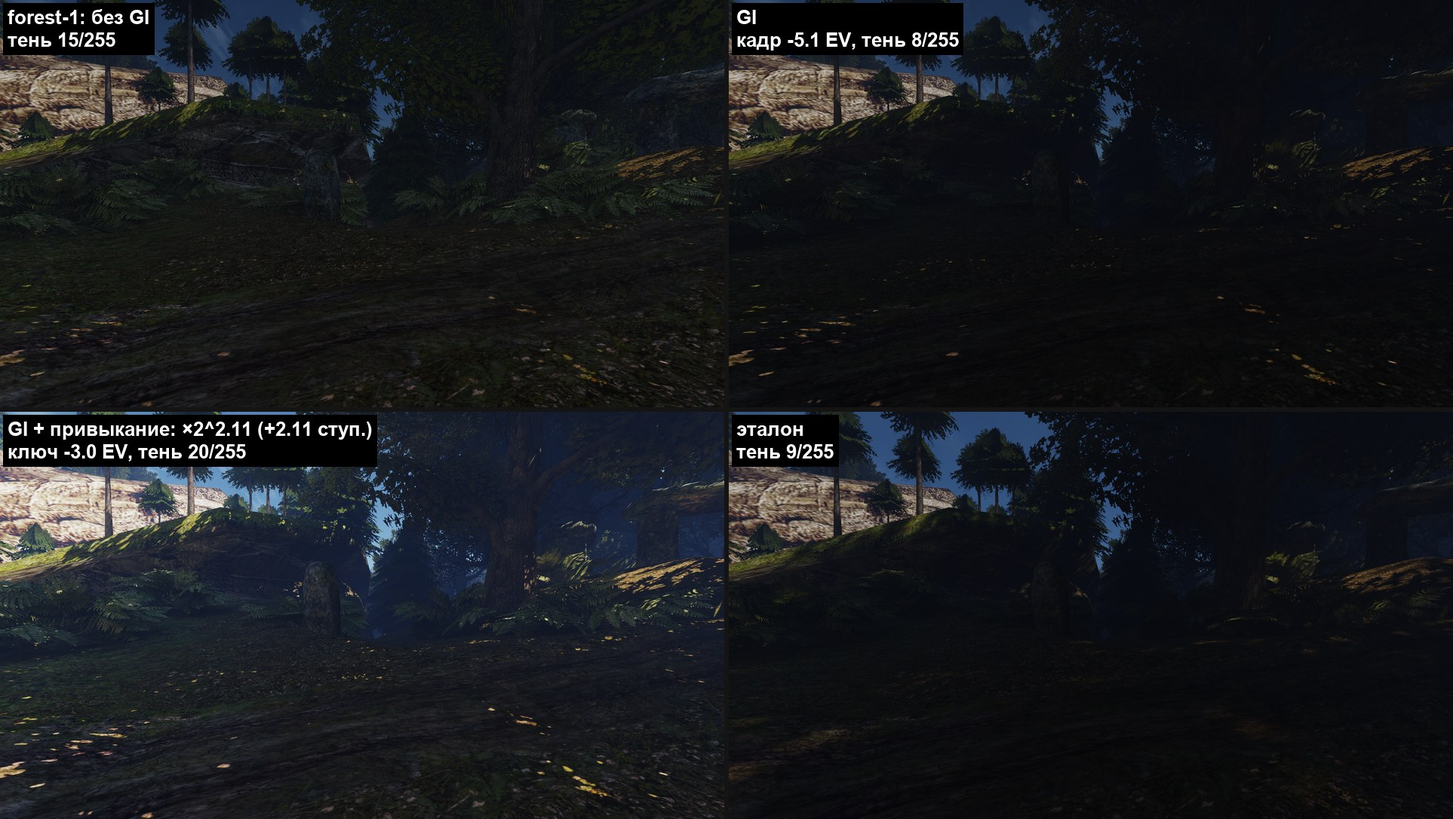
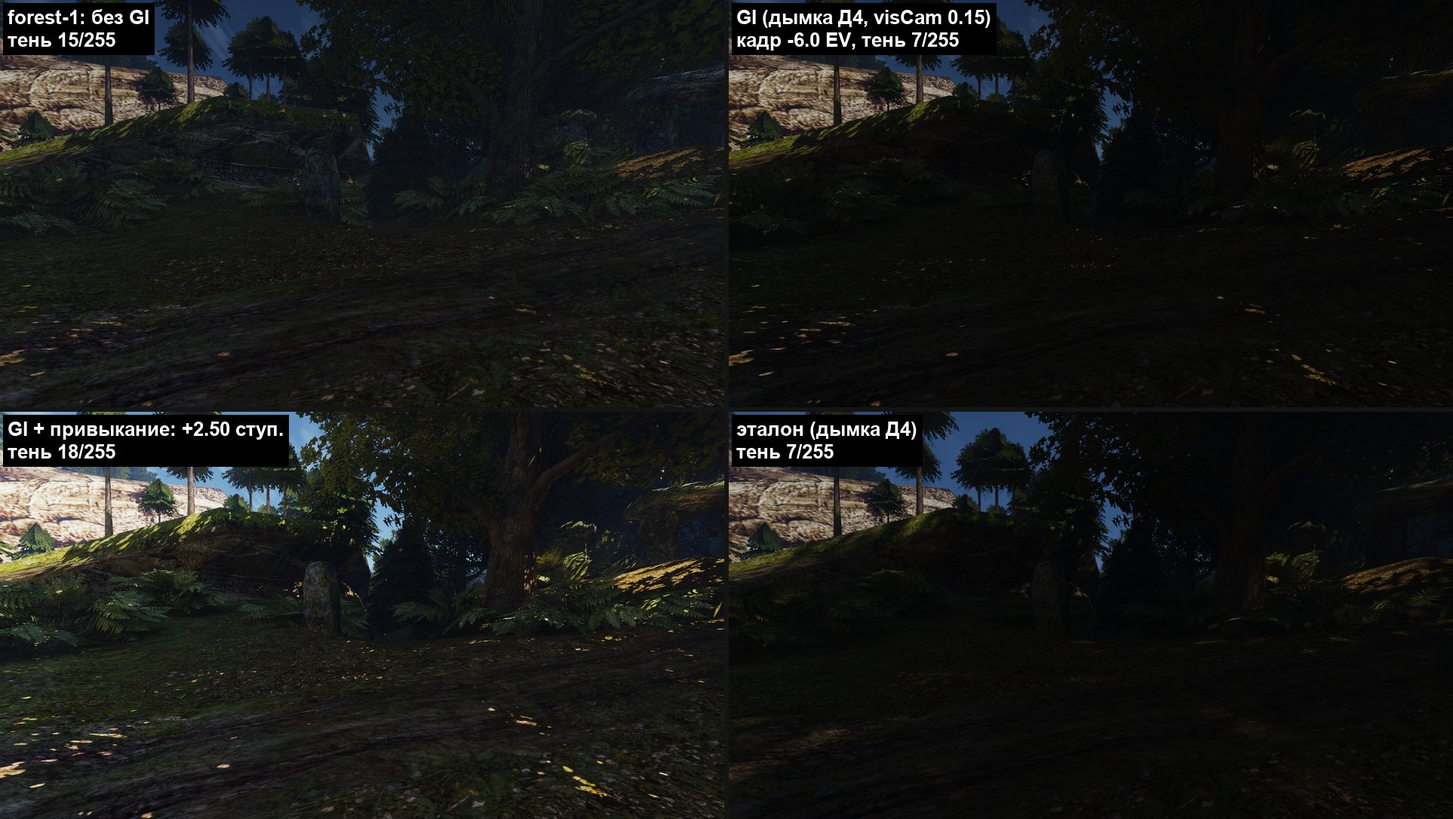
rt-revisit step 2, round 3: D4 measured - the shade, the open views, visCam over time, the clips; the sheets anew

Changed region(s): [[0.0, 0.4862, 0.4984, 0.7901], [0.5607, 0.4862, 0.6542, 0.5773], [0.5296, 0.0, 0.6854, 0.0608]]

diff --git a/reports/render-features/2026-11-08-rt-revisit/README.md b/reports/render-features/2026-11-08-rt-revisit/README.md
@@ -92,7 +92,7 @@
 
 0. **Замер.** Таймеры GPU по проходам на Vulkan (timestamp queries, как `OPENGOTHIC_GPU_PASSES` на Metal). Цена нынешних `-rt 1` и `-rt 1 -gi 1` на 3080 при 1440p в пяти местах стенда. Размер сцены лучей в городе после ремастера: экземпляры, треугольники, память BLAS. Приёмка — таблица. **Сделан** ([итог](step-0.md)): на улице трассировка стоит +0,9…1,6 мс GPU, в интерьере всю цену даёт пересборка сцены каждый кадр — 11,3 мс CPU и ≈2,9 мс GPU.
 1. **Сцена лучей без цены на CPU** ([проект 1б](step-1b.md); 1а — найти, что в интерьере пересобирает сцену каждый кадр). Ландшафт и статика — BLAS один раз на кусок и сжатие. TLAS на GPU каждый кадр из буфера экземпляров растеризации. Корзины — по хэшу. Дескрипторы не пересоздаются. Подвижные vob входят в TLAS. Приёмка: в интерьере с `-rt 1` кадр CPU как с `-rt 0` (±0,3 мс), `updateRtScene` < 0,1 мс; TLAS ≤ 0,3 мс GPU на 3080; картинка теней и GI та же. **Сделан** ([итог](step-1.md), #1037, #1043): в интерьере `-rt 1` дороже `-rt 0` на 0,13 мс CPU (было +12,6), `rt_scene` 0,027 мс, сборка TLAS 0,27 мс GPU; на улице цена лучей только на GPU, +0,65…1,4 мс в 1440p, почти вся — GI-пробы. Предметы, NPC и ткань в сцену не вошли; с `-rt 1` ландшафт по-прежнему не подгружается по кускам.
-2. **GI.** Пробы с бюджетом лучей на 3080. Режим запекания тем же кодом для Mac. Выбор между `-gi 1`, `-gi 2` и своей хэш-сеткой. Приёмка: клипы «без GI | GI» — интерьер, ночная гавань, лес, пещера; ≤1,5 мс GPU в 1440p. **Исследование сделано** ([план](step-2.md)): эталон — трассировщик путей движка, сценарии `gi-clips` и `gi-reference`, сравнение `scripts/gi_compare.py`. Без GI 30 % клеток кадра в пределах ±15 % от эталона, `-gi 1` — 40 %, `-gi 2` — 64 %. Предложение — пересвечиваемые пробы, как у The Division: 2а свет в точке попадания, 2б размещение и видимость, 2в запекание для Mac. **2а принят** пользователем 2026-11-09 ([итог](step-2.md#2а-сделано): 62 % клеток, весь GI 0,58–1,32 мс); цель 75 % перенесена на 2б ([замысел 2б](step-2b.md)). **2б-1 принят** пользователем 2026-11-10 ([итог](step-2b.md#2б-1-сделано), [пересмотр](step-2b.md#2б-1-пересмотр)): пробы не зависят от взгляда, поворот на 180° и обратно меняет клетки не больше чем на 1,2 % (`main` — 6,2 %). Причина тёмных дневных помещений — обрезка света ламп в хранилище проб (днём лампы ×1/экспозиция дают до 10⁶ при потолке 65 тыс.); масштаб хранения 2⁻⁸ и пересвет по счётчику пробы дали 71 % клеток (было 62 % у 2а), медиана 0,95, весь GI 0,81–0,99 мс. Клетка `hut-day-2` 1,22 — переоценка у косой стены от куба из шести граней (интеграл по нормали пикселя даёт 1,09). Решение пользователя: принять при 71 %, пороги проверки 70 % и 1,25; цель 75 %, точнее облучённость по направлениям и утечки — в 2б-2. **2б-2 принят** пользователем 2026-11-10 ([итог](step-2b.md#2б-2-сделано), PR #1162): облучённость пробы — гармоники L2 вместо куба из шести граней, 75 % клеток (медиана 0,96), `hut-day-2` 1,12, утечек GI сквозь стены нет (новые ракурсы `leak-*`), весь GI 0,92–1,09 мс. Разбор потерь: ~9 % отражённого света помещений теряет формула пятна лампы в точках попадания из 2а — её правит 2б-3. **2б-3 принят** пользователем 2026-11-10 ([итог](step-2b.md#2б-3-сделано)): свет ламп в попаданиях — точное среднее по пятну конуса (интеграл вокруг основания лампы; кандидаты замысла А–Г не прошли 5 %), 82 % клеток (медиана 0,99), затенённые помещения 88 % (было 69 %), весь GI 1,00–1,16 мс. Порог горячих клеток не пройден на `hut-day-2` 1,21, `leak-sun-day` 1,30, `interior-night-2` 1,42 и клетках пламени (`cave-night-2` не проходит и чистый `main`): по разбору формула пятна верна, перебор дают отскок через пробы и сами пробы. Решение пользователя: принять с этими клетками, отскок через пробы у ламп и места проб у полок — в следующий шаг. **2б-4** ([замысел](step-2b.md#2б-4-замысел-11112026), [итог](step-2b.md#2б-4-сделано)) — разбор трёх горячих клеток опытами в отладочной сборке, код GI не менялся. Солнце в попадании (О1), отскок (О2) и видимость углов в сборе пикселя (О3) снимают 0–11 % превышения: правок К1–К3 нет. Перебор дают ближнее поле — проба не в точке пикселя (О4: 44–86 % превышения) — и конус сэмпла одной точкой (новый опыт О5: 36–94 %); вместе они закрывают все три клетки до ±5 %. В клетке полок ещё и флакон, которого нет в сцене лучей эталона. Обе правки — новые части системы; оценки К4 (градиент облучённости +0,2–0,3 мс или короткое заслонение +0,15–0,5 мс) и К5 (луч на пересвеченный сэмпл: весь GI 1,39–2,00 мс) — на решение ведущего. Итоговая проверка с ослабленными целями шага — как `main`: 83 % клеток, затенённые помещения 88 %, весь GI 0,96–1,12 мс. **Приёмка по клипам** «без GI | GI» (`gi-accept`, 12.11.2026) остановлена на темноте тени: лес в полдень и пещера днём почти чёрные. [Разбор](step-2-shade.md): свет тени с GI физически верен и совпадает с эталоном (лес −4,6 ступени от открытого места, жизнь −3,5…−6,6); темноту дают экспозиция без привыкания (1,5–2,1 ступени) и низ кривой тонов (≈1,7 ступени), а без GI тень держалась на свете, которого там нет. Пути К1 (привыкание) и К2 (линейный низ кривой) показаны на листах, выбор — за пользователем. Пользователь выбрал К1. **Привыкание глаза** ([замысел](step-2-shade.md#привыкание-глаза-замысел-12112026), [итог](step-2-shade.md#привыкание-глаза-сделано-12112026)): вуаль дымки оказалась ошибкой таблицы дымки (у камеры читалось рассеяние 780 м воздуха) и убрана, и без GI тень темнеет на 2 из 255. Привыкание сделано (`-eye`, по умолчанию с `-gi 1`): днём лес +1,8…+2,1 ступени, пещера +2,2…+2,4, рынок 0, тень леса 8 → 20 из 255. Решения ведущего 12.11.2026: ключ ночи — открытое место без ламп (−6,6 EV, поля в 23:00; ночная пещера +0,33 ступени), замер остаётся по кадру без неба, база порогов GI — новая, с правкой вуали (`gi-eye-check.sh`). Синяя дымка в тени под привыканием — многократное рассеяние неба без заслонения (55–72 % яркости тени); правка Д1 (заслонять его тенью солнца) гасит и дальнюю дымку на 8–36 %, в ветку не вошла. Клипы «без GI | GI | GI + привыкание» сняты (`gi-accept.bench`), их смотрит пользователь.
+2. **GI.** Пробы с бюджетом лучей на 3080. Режим запекания тем же кодом для Mac. Выбор между `-gi 1`, `-gi 2` и своей хэш-сеткой. Приёмка: клипы «без GI | GI» — интерьер, ночная гавань, лес, пещера; ≤1,5 мс GPU в 1440p. **Исследование сделано** ([план](step-2.md)): эталон — трассировщик путей движка, сценарии `gi-clips` и `gi-reference`, сравнение `scripts/gi_compare.py`. Без GI 30 % клеток кадра в пределах ±15 % от эталона, `-gi 1` — 40 %, `-gi 2` — 64 %. Предложение — пересвечиваемые пробы, как у The Division: 2а свет в точке попадания, 2б размещение и видимость, 2в запекание для Mac. **2а принят** пользователем 2026-11-09 ([итог](step-2.md#2а-сделано): 62 % клеток, весь GI 0,58–1,32 мс); цель 75 % перенесена на 2б ([замысел 2б](step-2b.md)). **2б-1 принят** пользователем 2026-11-10 ([итог](step-2b.md#2б-1-сделано), [пересмотр](step-2b.md#2б-1-пересмотр)): пробы не зависят от взгляда, поворот на 180° и обратно меняет клетки не больше чем на 1,2 % (`main` — 6,2 %). Причина тёмных дневных помещений — обрезка света ламп в хранилище проб (днём лампы ×1/экспозиция дают до 10⁶ при потолке 65 тыс.); масштаб хранения 2⁻⁸ и пересвет по счётчику пробы дали 71 % клеток (было 62 % у 2а), медиана 0,95, весь GI 0,81–0,99 мс. Клетка `hut-day-2` 1,22 — переоценка у косой стены от куба из шести граней (интеграл по нормали пикселя даёт 1,09). Решение пользователя: принять при 71 %, пороги проверки 70 % и 1,25; цель 75 %, точнее облучённость по направлениям и утечки — в 2б-2. **2б-2 принят** пользователем 2026-11-10 ([итог](step-2b.md#2б-2-сделано), PR #1162): облучённость пробы — гармоники L2 вместо куба из шести граней, 75 % клеток (медиана 0,96), `hut-day-2` 1,12, утечек GI сквозь стены нет (новые ракурсы `leak-*`), весь GI 0,92–1,09 мс. Разбор потерь: ~9 % отражённого света помещений теряет формула пятна лампы в точках попадания из 2а — её правит 2б-3. **2б-3 принят** пользователем 2026-11-10 ([итог](step-2b.md#2б-3-сделано)): свет ламп в попаданиях — точное среднее по пятну конуса (интеграл вокруг основания лампы; кандидаты замысла А–Г не прошли 5 %), 82 % клеток (медиана 0,99), затенённые помещения 88 % (было 69 %), весь GI 1,00–1,16 мс. Порог горячих клеток не пройден на `hut-day-2` 1,21, `leak-sun-day` 1,30, `interior-night-2` 1,42 и клетках пламени (`cave-night-2` не проходит и чистый `main`): по разбору формула пятна верна, перебор дают отскок через пробы и сами пробы. Решение пользователя: принять с этими клетками, отскок через пробы у ламп и места проб у полок — в следующий шаг. **2б-4** ([замысел](step-2b.md#2б-4-замысел-11112026), [итог](step-2b.md#2б-4-сделано)) — разбор трёх горячих клеток опытами в отладочной сборке, код GI не менялся. Солнце в попадании (О1), отскок (О2) и видимость углов в сборе пикселя (О3) снимают 0–11 % превышения: правок К1–К3 нет. Перебор дают ближнее поле — проба не в точке пикселя (О4: 44–86 % превышения) — и конус сэмпла одной точкой (новый опыт О5: 36–94 %); вместе они закрывают все три клетки до ±5 %. В клетке полок ещё и флакон, которого нет в сцене лучей эталона. Обе правки — новые части системы; оценки К4 (градиент облучённости +0,2–0,3 мс или короткое заслонение +0,15–0,5 мс) и К5 (луч на пересвеченный сэмпл: весь GI 1,39–2,00 мс) — на решение ведущего. Итоговая проверка с ослабленными целями шага — как `main`: 83 % клеток, затенённые помещения 88 %, весь GI 0,96–1,12 мс. **Приёмка по клипам** «без GI | GI» (`gi-accept`, 12.11.2026) остановлена на темноте тени: лес в полдень и пещера днём почти чёрные. [Разбор](step-2-shade.md): свет тени с GI физически верен и совпадает с эталоном (лес −4,6 ступени от открытого места, жизнь −3,5…−6,6); темноту дают экспозиция без привыкания (1,5–2,1 ступени) и низ кривой тонов (≈1,7 ступени), а без GI тень держалась на свете, которого там нет. Пути К1 (привыкание) и К2 (линейный низ кривой) показаны на листах, выбор — за пользователем. Пользователь выбрал К1. **Привыкание глаза** ([замысел](step-2-shade.md#привыкание-глаза-замысел-12112026), [итог](step-2-shade.md#привыкание-глаза-сделано-12112026)): вуаль дымки оказалась ошибкой таблицы дымки (у камеры читалось рассеяние 780 м воздуха) и убрана, и без GI тень темнеет на 2 из 255. Привыкание сделано (`-eye`, по умолчанию с `-gi 1`): днём лес +1,8…+2,1 ступени, пещера +2,2…+2,4, рынок 0, тень леса 8 → 20 из 255. Решения ведущего 12.11.2026: ключ ночи — открытое место без ламп (−6,6 EV, поля в 23:00; ночная пещера +0,33 ступени), замер остаётся по кадру без неба, база порогов GI — новая, с правкой вуали (`gi-eye-check.sh`). Синяя дымка в тени под привыканием — многократное рассеяние неба без заслонения (55–72 % яркости тени); правка Д1 (заслонять его тенью солнца) гасит и дальнюю дымку на 8–36 %, в ветку не вошла. Круг 3: пользователь выбрал путь «По небу у камеры» (Д4) — многократное рассеяние гасится по доле неба, видимой из точки камеры (лучи с альфа-тестом крон). В пещере пелена ушла почти вся, в лесу — частично. На открытом месте камера видит лишь 40–60 % полусферы, и дальняя дымка там тоже меняется; варианты определения `visCam` — на решение. Клипы «без GI | GI | GI + привыкание» кругов 2 и 3 сняты (`gi-accept.bench`), их смотрит пользователь.
 3. **Отражения.** Сначала вода, затем свои материалы с шероховатостью ниже порога. Половинное разрешение, свет в точке попадания — из проб и VSM, запасной путь — SSR. Приёмка: клип гавани; ≤1,5 мс.
 4. **По желанию.** AO лучами вместо SSAO на 3080; контактные лучи для теней ламп; люди в сцене лучей капсулами.
 

diff --git a/reports/render-features/2026-11-08-rt-revisit/step-2-shade.md b/reports/render-features/2026-11-08-rt-revisit/step-2-shade.md
@@ -287,6 +287,8 @@
 
 **Итог круга 2:** ключ ночи −6,6 в ветке, Э1 и Э3 повторены, клипы приёмки сняты; синяя дымка в тени под привыканием разобрана, правка Д1 ограждения не прошла (раздел «Дымка в тени»).
 
+**Итог круга 3:** выбор пользователя 12.11.2026 для синей дымки — «По небу у камеры» (Д4). Д4 сделан и убирает пелену в пещере почти всю, в лесу — частично. Ограждение открытых видов он не прошёл: `visCam` на открытом месте 0,4–0,6, а не около 1, варианты В1–В3 — в «Дымка в тени: сделано, круг 3». Замечания ревью F2–F5 исправлены, F1 оставлен в ограничениях по решению ведущего. Клипы круга 3 сняты с Д4.
+
 ### Вуаль дымки
 
 **Откуда.** Объёмная дымка (`zFogRadial=1`, по умолчанию; `fog.frag` с `VOLUMETRIC`) читает две таблицы `fogLut3D` (32 слоя): однократное рассеяние солнца и многократное (`fogLutMs`). Слой `i` хранит свет, рассеянный **до дальнего края** слоя (`fog_view_lut.comp` пишет сумму после шага). Таблица тянется на 500 м вида (ближняя плоскость 10 см, дальняя 1000 м, глубина 0,9999), а путь в воздухе растянут в 50 раз: один слой — около 780 м воздуха. В пикселе ближе середины первого слоя (7,8 м) выборка возвращает весь первый слой. Однократное рассеяние у камеры уже гасилось (`min(d·64, 1)`), многократное — нет. Отсюда 0,0020–0,0027 до кривой на каждом дневном пикселе в метре от камеры, и под кронами, и в пещере: это свет неба, рассеянный в 780 м воздуха, которых между камерой и стеной нет. **Ошибка.** У эталона та же вуаль: трассировщик путей рисует дымку тем же `drawFog`.
@@ -427,7 +429,7 @@ Mac, Metal, без GI, 800×600: `BENCH_HOST=local scripts/bench.sh veil.bench` 
 - **Открытое место при взгляде в тень тоже поднимается:** рынок в полдень, повёрнутый к затенённой стороне площади, получает до +0,5 ступени (клип `market-day`). Это то же свойство замера по кадру.
 - **Привыкание к точке взгляда:** на повороте 360° множитель ходит на 0,7–0,9 ступени в лесу и 1,3–1,5 у устья (Э2). Рывков нет: ход ограничен скоростью 1 ступень/с вверх и 3 вниз.
 - **Лес под кронами ночью** получает +1,26 ступени (Э1, круг 2).
-- **Синяя дымка в тени** под привыканием остаётся: правка Д1 ограждения не прошла (раздел «Дымка в тени»).
+- **Синяя дымка в тени:** с Д4 (круг 3) в пещере уходит почти вся, в лесу остаётся около половины прежней доли (`visCam` 0,15). На открытом месте Д4 меняет и дальнюю дымку на 4–18 % её яркости днём, при пороге ±1 из 255 — вариант `visCam` ждёт решения.
 - **GI в глубине пещеры и в тёмной хижине на 8–10 % темнее эталона** (раздел «GI не задет»); раньше это скрывала вуаль.
 - Герой в кадрах листов спрятан, как в разборе: эталон его не видит.
 - Сдвиг Пуркинье и блум с привыканием отдельно не смотрели: блум идёт до множителя и поднимается вместе с кадром.
@@ -526,3 +528,73 @@ Mac, Metal, без GI, 800×600: `BENCH_HOST=local scripts/bench.sh veil.bench` 
 - **Д3 — объём видимости неба по пробам** (фроксели): честно и для лучей сквозь устье, но это новая система.
 
 Клипы части Г сняты без правки дымки, синяя пелена в тени под привыканием в них есть — это известный дефект.
+
+## Дымка в тени: сделано, круг 3 (12.11.2026) — Д4 «по небу у камеры»
+
+Выбор пользователя 12.11.2026 по клипам и листам круга 2 — путь «По небу у камеры» (Д4, замысел выше). Сделано по замыслу:
+- `fog_sky_vis.comp` — 64 луча за кадр из точки камеры, альфа-тест как у лучей проб, экспоненциальное среднее τ = 0,5 с, сброс при скачке камеры больше 3 м;
+- `scene.fogSkyVis` читают вариант дымки `fog3d_hq_sky` и `main.frag`;
+- `renderer_fogsky.cpp` — включается с пробами GI и у трассировщика путей;
+- `visCam` пишется в журнал привыкания (`fog_sky_vis`).
+
+**Без GI — прежний кадр.** `veil.bench` с `deterministic on`, круг 2 против круга 3: 3 кадра из 8 побитно те же, в остальных отличаются 3–116 пикселей на 1 уровень. Это шум повторных прогонов: тот же код без GI, круг 1 против круга 2, даёт до 269 пикселей и до 3 уровней. Проход `Fog-sky` без GI не ставится, у дымки прежний пайплайн, у прозрачного — умножение на 1.
+
+**`visCam` по видам** (журнал, среднее за последнюю секунду на месте):
+
+| Вид | `visCam` | дальше 30 м в пределах ±1 из 255, Д4 против круга 2 (без привыкания) |
+|---|---|---|
+| `cave-day-1` | 0,002 | — (0,7 % кадра) |
+| `cave-day-2` | 0,03 | — |
+| `forest-1` / `forest-2` | 0,15 / 0,13 | 2 % / 8 % |
+| `valley-1` (опушка у `PATH_66`) | 0,14 | 8 % |
+| `market-day` (площадь между домами) | 0,42 | **56 %** |
+| `harbour-night-1` | 0,62 | 100 % (ночью тень солнца пуста, Д4 не действует) |
+| поле Онара 12:00 / 19:30 / 23:00 | 0,52 / 0,50 / 0,52 | **63 %** / **67 %** / 100 % |
+| вид сверху на поля в 19:30 | 0,55 | **14 %** |
+| открытая точка `NW_TROLLAREA_RITUALFOREST_18`, два взгляда | 0,34 / 0,46 | глубины нет; весь кадр 90 % / 81 % (второй вид камера задела склоном) |
+
+**Ограждение не прошло, стоп.** На открытых видах дальше 30 м в пределах ±1 только 14–67 % пикселей при пороге 90 %. **Причина:** на открытом месте камера видит лишь 40–60 % верхней полусферы — по телесному углу, а холмы, деревья и дома у горизонта закрывают около половины. Замысел ждал `visCam` около 0,9–1 на открытом месте. Поэтому Д4 снимает с дальней дымки примерно половину разницы Д1: 4–18 % её яркости днём, при низком солнце — больше. Линейное смешение по замыслу; кривых и порогов не добавлял.
+
+**В тени — частично.** Доля дымки в тени до кривой (оценка: свет поверхностей из кадров без рассеяния круга 2 и средняя яркость тени «до | после»): `forest-1` 71 → ~46 %, `forest-2` 61 → ~38 %, `cave-day-1` 72 → ~13 %, `cave-day-2` 55 → ~7 %. В пещере пелена уходит почти вся (`visCam` 0–0,03). В лесу при `visCam` 0,15 остаётся заметная доля: полное многократное рассеяние там вчетверо ярче тени, и 15 % от него — это ещё половина яркости тени. Лист `step-2/eye-haze.jpg`: «привыкание, круг 2 | привыкание + Д4» по четырём ракурсам и открытым видам. С Д4 тень темнее, и множитель привыкания в лесу и пещере упирается в потолок 2,5 (было 2,1–2,4).
+
+**Варианты** (на решение; не подбирал):
+- **В1 — «небо над головой».** Считать только лучи выше заданного угла над горизонтом. Кроны и своды пещеры закрывают зенит, а холмы и дома у горизонта — нет. Открытое место будет близко к 1, лес и пещера останутся низкими. Нужно назвать угол: это константа определения, а не замер.
+- **В2 — вес по косинусу**, как у облучённости горизонтальной площадки. Холмы до 15° над горизонтом закрывают по косинусу около 7 % веса против 26 % по телесному углу. Оценка для открытого места — 0,8–0,9, для леса около 0,2 (З6 разбора). Дальняя дымка на открытом месте всё равно сдвинется на 1–4 %, ограждение 90 % под вопросом.
+- **В3 — нормировка на открытое место:** `visCam` / уровень открытого места (поля в полдень, 0,5 по замеру), не больше 1 — так же, как ключ привыкания взят по рынку. Открытые виды — 1, лес — 0,3, пещера — 0–0,06. Это калибровка, которую замысел Д4 не предусматривал.
+- В1 и В2 меняют определение `visCam`, В3 — его масштаб. Проход и шейдеры те же.
+
+Клипы круга 3 сняты с Д4 как есть.
+
+**Во времени** (журнал `c3-eye`, проходы клипов; τ = 0,5 с):
+
+| Проход | `visCam` по секундам | множитель, ступени |
+|---|---|---|
+| `forest-walk`: склон у скалы → под кроны → склон | 0,18 → 0,17–0,19 под кронами → 0,18 | 1,4 → 2,5 → 1,7 |
+| `cave-walk`: тропа → устье → глубже → наружу | 0,19–0,27 снаружи → 0,18 у устья → 0,01 внутри → 0,06 → 0,12 → 0,20–0,24 | 0–0,3 → 2,5 → 0,2–0,8 |
+
+Тропа у пещеры и склон перед лесом — не открытые места: скалы и деревья закрывают 75–80 % неба, `visCam` там почти как в лесу (0,18–0,27). Поэтому дымка в лесном проходе почти не меняется; меняется она в пещере (0,2 → 0). Плавно, кроме двух кадров: `face wp` разворачивает героя мгновенно, камера перелетает за ним больше чем на 3 м, срабатывает сброс, и `visCam` за кадр прыгает на 0,19–0,23 (в пещере 0,18 → 0,01 у устья, в лесу 0,18 → 0,27 на склоне). В игре мгновенного разворота камеры нет; на срезе это задуманный сброс.
+
+**GI против эталона.** `gi-eye-check.sh` после Д4: общие пороги прошли (77 % клеток при 76, помещения 80 % при 80), горячие клетки двух затенённых ракурсов — нет: `cave-day-2` 1,93 → 2,05 при пределе 1,98, `forest-2` 1,31 → 1,47 при пределе 1,36. Медианы пещеры уходят от 1 (`cave-day-1` 0,90 → 0,87). Ночные ракурсы и помещения не сдвинулись (`interior-night-2` 1,41, `cave-night-1` 1,06, `harbour-night-1/2` прежние).
+
+Пара прогонов — база круга 2 (вуаль убрана, дымка прежняя) и этот прогон: в коде между ними только Д4, и он одинаков у GI и у эталона. Свет неба в воздухе — общее слагаемое у обоих. Без него отношения в тени расходятся от 1 так же, как после вуали в круге 2: светлая клетка GI становится светлее эталона, тёмная — темнее. Базу пересохранил по правилу круга 3 (`gi-main-eye-cmp-all.txt`, прежняя — `gi-main-eye-r2-cmp-all.txt`, объяснение — `gi-main-eye-README.txt`). Пороги не менял.
+
+### Клипы приёмки (круг 3)
+
+Три прогона `gi-accept.bench` с Д4: без GI, GI с `OPENGOTHIC_EYE=0`, GI с привыканием. Прогон без GI переснят: его кадры побитно не совпали с кругом 2 — кодирование и NPC, код пути без GI тот же. Склейки «без GI | GI | GI + привыкание», те же 12 клипов: `/mnt/shared/gothic-ai/gi-eye/2026-11-12/clips-3/` и `.bench/gi-eye/2026-11-12/clips-3/` в worktree задачи. Клипы круга 2 лежат рядом в `clips/`. Множитель и `visCam` — по журналу за время записи. «Яркость ×» — отношение средней яркости трети «GI + привыкание» к трети «GI» на экране, не ступени.
+
+| Клип | множитель, ступени | `visCam` | яркость × | что заметил |
+|---|---|---|---|---|
+| `interior-night` | 0 | 0 | 1,00 | как GI |
+| `hut-day` | 0,8…2,4 | 0 | 1,3…2,7 | хижина светлая, пелены нет |
+| `harbour-night` | 0 | 0,59…0,71 | 1,00 | как GI |
+| `harbour-night-walk` | 0 | 0,39…0,65 | 1,0 | как GI |
+| `forest-day` | 2,4…2,5 | 0,13…0,17 | 2,5…2,6 | синеватая пелена в глубине леса почти ушла; дальний склон в солнце без изменений на глаз |
+| `cave-day` | 1,7…2,5 | 0…0,01 | 1,8…2,7 | стены пещеры без синевы, фактура читается; у костра пересвета нет |
+| `cave-night` | 0…0,5 | 0…0,01 | 1,0…1,25 | ночь ночью; пещера чуть светлее GI, когда в кадре нет костра |
+| `forest-walk` | 1,4…2,5 | 0,12…0,55 | 1,8…2,7 | на 2-й секунде камера проходит сквозь ствол за героем (во всех третях); `visCam` прыгает за кадр при развороте героя (сброс) |
+| `cave-walk` | 0…2,5 | 0,01…0,28 | 1,0…2,6 | вход: кадр светлеет за 2–3 с; выход: темнеет за 1 с; рывки яркости при мгновенных разворотах героя есть во всех третях, у привыкания они крупнее в абсолюте, потому что кадр ярче |
+| `cave-mouth-turn` | 1,8…2,5 | 0…0,01 | 2,1…2,9 | множитель дышит при взгляде в устье и в стену, плавно |
+| `forest-turn` | 2,1…2,5 | 0,14…0,16 | 2,3…2,6 | `visCam` на повороте не меняется (0,14–0,16): от взгляда он не зависит |
+| `market-day` | 0…0,55 | 0,39…0,46 | 1,00…1,26 | как в круге 2: при повороте к затенённой стороне площади множитель растёт до +0,5 (решение ведущего F1: свойство замера, в ограничениях) |
+
+Чёрных кадров нет, трети в синхроне (одинаковые кадры по времени на листах просмотра). Скачков дымки на границе тени в клипах не видно, кроме сброса при перелёте камеры (`forest-walk`, `cave-walk`).

diff --git a/docs/features/engine-render.md b/docs/features/engine-render.md
@@ -60,7 +60,7 @@
 | Гекс-тайлинг своих карт: общий расчёт трёх ячеек, случайный сдвиг и поворот нормали; normal/ORM берут одну доминирующую ячейку при весе ≥0,7 с плавным переходом | `antitile: "off"` в записи `materials.json` (по умолчанию); `offset` сохраняет направление, `rotate` разрешает поворот; размер — `antitile_cell` | `resources.*`, `graphics/material.*`, `drawbuckets.*`, `shader/materials/main.frag` | `test-material.py --pattern antitile`, `rf.bench`: off/offset/rotate, автокорреляция, солнце/фонарь, PSNR и FPS | [Своя игра](../own-content.md#как-работает-сейчас) |
 | Ray query (тени точечных светильников, свет не проходит сквозь стены) — **выключен по умолчанию на всех платформах** с 2026-10-28: сцена трассировки перестраивала весь TLAS при каждом сдвиге объекта, интерьер на M1 шёл 4–8 FPS. С 2026-11-09 (шаг 1б-2) сцена постоянная: сдвиг объекта переписывает его слот, TLAS собирается в кадре только при изменениях | включить для опытов: `-rt 1` или для стендов `OPENGOTHIC_RT=1` (флаг главнее; на DX12 недоступно: TLAS в кадре есть только на Vulkan и Metal) | `common/commandline.*` | стенд `scripts/perf.sh interior` | [отчёт 10-18](../../reports/render-features/2026-10-18/README.md), [замер](../performance.md#план-и-журнал) |
 | GI-пробы на дискретной видеокарте с трассировкой — только вместе с `-rt 1`: точки попадания лучей проб освещаются по формулам трассировщика путей — все лампы в радиусе по дереву рамок ламп (один луч тени с перевзвешиванием по их свету; свет лампы — точное среднее функции трассировщика по пятну конуса сэмпла на плоскости попадания: интеграл вокруг основания лампы, по углу 8 направлений, 2б-3) и солнце с лучом тени, небо с его ночным небом, отскок от проб прошлого кадра (без пробы — своя освещённость пробы); сэмплы пересвечиваются по очереди (все за ≈0,125 с, очередь — по счётчику пересветов самой пробы) в кэш RGB9E5, новая проба — целиком и без истории; облучённость пробы — гармоники L2 со свёрткой косинуса (7 текселей RGBA16F на пробу, 4 МБ; 2б-2), смешиваются по времени на месте, без копии прошлого кадра (τ 0,1 с, сброс при скачке облучённости вдоль оси); при часах игры назад (загрузка сохранения) и смене мира пробы начинаются заново (бенч этого не проверяет: загрузки сохранения в сценарии нет), при скачке времени суток (сон, `set time`) их свет считается заново (`OPENGOTHIC_GI_JUMP_RESET=0` выключает это для замера затухания света в цепочках проб, `scripts/bench/gi-decay.bench`); свет в сэмплах и кубах хранится с масштабом 2⁻⁸ (днём лампы ×1/экспозиция дают до 10⁶ и выходили за 65 408 RGB9E5); пробы не зависят от взгляда (2б-1): lod по расстоянию до камеры, проба живёт, пока её берут пиксели или сэмплы других проб (5 с, при нехватке мест первой уходит самая давняя), попадания ближе 10 м без пробы заводят её (512 заявок за кадр), поиск пробы в попадании — в мире, пробы вне экрана пересвечиваются раз в 2 кадра; без SSAO и `ShadowMap #1`; счётчики `gi_probes_live`, `gi_probes_traced`, `gi_probes_from_hits`, `gi_probes_freed`. `-gi 2` — сурфели апстрима (прототип). Эталон для GI — трассировщик путей (консоль `toggle pathtrace`: 5 отскоков, солнце, небо, лампы) | `-gi 0`; для стендов `OPENGOTHIC_GI=0\|1\|2` (флаг главнее) | `common/gothic.cpp`, `common/commandline.*`, `common/graphics/renderer_gi.cpp` (`prepareGi`), `shader/lighting/rt/probe_*.comp\|frag`, `shader/lighting/lightstree/` | кадры и клипы `scripts/bench/gi-clips.bench` по вариантам (каждый кадр ещё и без героя, NPC и частиц — `-bare`; ракурсы утечек сквозь тонкие стены `leak-*`), эталон тех же кадров `scripts/bench/gi-reference.bench`, сравнение по клеткам, отклик, поворот и затухание `scripts/gi_compare.py` (`--response`, `--turn`, `--decay`), поворот камеры `scripts/bench/gi-turn.bench`, затухание без сброса `scripts/bench/gi-decay.bench`; цена — `scripts/perf.sh` с `OPENGOTHIC_GPU_PASSES=1` | [отчёт](../../reports/render-features/2026-10-18/README.md), [исследование GI](../../reports/render-features/2026-11-08-rt-revisit/step-2.md), [2а](../../reports/render-features/2026-11-08-rt-revisit/step-2.md#2а-сделано), [2б-1](../../reports/render-features/2026-11-08-rt-revisit/step-2b.md#2б-1-сделано), [пересмотр 2б-1](../../reports/render-features/2026-11-08-rt-revisit/step-2b.md#2б-1-пересмотр), [2б-2](../../reports/render-features/2026-11-08-rt-revisit/step-2b.md#2б-2-сделано), [2б-3](../../reports/render-features/2026-11-08-rt-revisit/step-2b.md#2б-3-сделано) |
-| Привыкание глаза под GI (`-gi 1`): множитель кадра в проходе тонов после всего света, блума и TAA — замер кадра до кривой без неба (сетка 128×72, гистограмма логарифмов, чтение через кадр), ключ открытого места (день −3,0 EV — рынок в полдень; ночь −6,6 EV — открытое место без ламп, поля в 23:00), только вверх, не больше 2,5 ступени, 1 ступень/с к темноте и 3 к свету, сброс без хода при скачке камеры больше 3 м за кадр (телепорт, срез с переносом камеры; поворот на месте — обычным ходом), часах назад и скачке времени суток больше 10 игровых минут; без GI множитель ровно 1. Вместе с ним: дымка у камеры нарастает с нуля — вуаль рассеяния целого слоя таблицы дымки в метре от камеры убрана (и без GI) | `-eye 0` или `OPENGOTHIC_EYE=0` (флаг главнее); журнал множителя `OPENGOTHIC_EYE_LOG=<файл>` | `shader/lighting/eye_meter.comp`, `common/graphics/eyeadaptation.*`, `renderer_eye.cpp`, `renderer_post.cpp`; дымка — `shader/sky/fog.frag`, `shader/materials/main.frag` | листы `step-2/eye-<ракурс>.jpg`, `eye-veil.jpg`, `eye-haze.jpg`, клипы `scripts/bench/gi-accept.bench` в трёх вариантах, журнал `OPENGOTHIC_EYE_LOG`; цена — `scripts/perf.sh` с `OPENGOTHIC_GPU_PASSES=1` (проход `Eye-meter`) | [привыкание глаза](../../reports/render-features/2026-11-08-rt-revisit/step-2-shade.md#привыкание-глаза-сделано-12112026) |
+| Привыкание глаза под GI (`-gi 1`): множитель кадра в проходе тонов после всего света, блума и TAA — замер кадра до кривой без неба (сетка 128×72, гистограмма логарифмов, чтение через кадр), ключ открытого места (день −3,0 EV — рынок в полдень; ночь −6,6 EV — открытое место без ламп, поля в 23:00), только вверх, не больше 2,5 ступени, 1 ступень/с к темноте и 3 к свету, сброс без хода при скачке камеры больше 3 м за кадр (телепорт, срез с переносом камеры; поворот на месте — обычным ходом), часах назад и скачке времени суток больше 10 игровых минут; без GI множитель ровно 1. Вместе с ним: дымка у камеры нарастает с нуля — вуаль рассеяния целого слоя таблицы дымки в метре от камеры убрана (и без GI). Под GI и у эталона многократное рассеяние дымки на шаге луча × `mix(бит тени солнца, 1, visCam)` (Д4), где `visCam` — доля неба из точки камеры (64 луча за кадр с альфа-тестом, среднее τ 0,5 с): в пещере и под кронами синеватая пелена в тени уходит; на открытом месте `visCam` 0,4–0,6, и дальняя дымка там меняется сильнее ограждения — вариант ждёт решения | `-eye 0` или `OPENGOTHIC_EYE=0` (флаг главнее); журнал множителя `OPENGOTHIC_EYE_LOG=<файл>` | `shader/lighting/eye_meter.comp`, `common/graphics/eyeadaptation.*`, `renderer_eye.cpp`, `renderer_post.cpp`; дымка — `shader/sky/fog.frag` (`FOG_SKY_VIS`), `shader/materials/main.frag`, `shader/lighting/rt/fog_sky_vis.comp`, `renderer_fogsky.cpp` | листы `step-2/eye-<ракурс>.jpg`, `eye-veil.jpg`, `eye-haze.jpg`, клипы `scripts/bench/gi-accept.bench` в трёх вариантах, журнал `OPENGOTHIC_EYE_LOG`; цена — `scripts/perf.sh` с `OPENGOTHIC_GPU_PASSES=1` (проход `Eye-meter`) | [привыкание глаза](../../reports/render-features/2026-11-08-rt-revisit/step-2-shade.md#привыкание-глаза-сделано-12112026) |
 | Сглаживание CMAA2 — при `-taa 0` (при `vidResIndex=0` или во внутреннем разрешении перед MetalFX) | `-aa 0` | `common/commandline.h` | замер рендера | [отчёт](../../reports/render-features/2026-10-18/README.md) |
 | TAA по движению камеры (этап 1а плана графики), по умолчанию вместо CMAA2: смещение главной проекции по Холтону (2, 3), 8 фаз, ±0,5 px внутреннего разрешения; перепроекция истории по глубине в координатах от камеры; резолв в линейном HDR после полупрозрачного и подводного прохода, до блума: ближайший вектор 3×3, Catmull-Rom, обрезка по дисперсии в YCoCg, вес по обратной яркости, доля кадра 0,1, две истории RGBA16F; сброс при смене размера, мира, загрузке, телепорте, срезе камеры (`Camera::markCut`, `cam cut`) и скачке больше 5 м или 30° за кадр. После резолва RCAS (FSR 1, MIT) в HDR до блума, история без резкости; смещение мипов текстур материалов −0,5 только у главного вида. Снимки (`shot`, `rec`) не сбрасывают историю. Тени, UI, инвентарь и путь трассировки не смещаются. За объектами историю ведут их векторы движения (1б, строка ниже); с `-mv 0` за NPC шлейф; маска полупрозрачного 1в — строка ниже | `-taa 0` или `[INTERNAL] taa=0`; `OPENGOTHIC_TAA=0\|1` главнее обоих; сила резкости `[INTERNAL] taaSharpness` (0…1, по умолчанию 0,75), для стендов `OPENGOTHIC_TAA_SHARPNESS`, `OPENGOTHIC_TAA_MIP_BIAS`; в логе `render: taa = 0\|1, sharpness, mip bias` | `common/graphics/taa.*`, `renderer.*`, `sceneglobals.*`, `shader/antialiasing/taa_{resolve,sharpen}.frag`, `shader/materials/main.frag`, `camera.*` | `gothic-taa-test`; стенд `scripts/bench/taa-clips.bench` в 1920×1080 с `OPENGOTHIC_TAA=0` и `=1`, замер `reports/render-features/2026-11-03-taa/metrics.py`; `scripts/perf.sh` | [отчёт 1а](../../reports/render-features/2026-11-03-taa/step-1a.md), [graphics-plan.md](../graphics-plan.md#как-работает-сейчас) |
 | Векторы движения объектов (подшаг 1б плана графики), по умолчанию с 2026-11-10 (вид принят по клипам): прошлая копия `instanceMem` на GPU (правило трёх шагов в `InstanceStorage::commit`, копии `patch_copy.comp`), вершинные варианты прохода G-буфера `main_{obj,ani,mph}_g[_orm]` считают смещение вершины за кадр (кости, матрица — ветер и физика, морфы, ткань) по прошлой копии; G-буфер получает четвёртое вложение `gbufMotion` RG16F — остаток к вектору камеры в координатах текстуры; ландшафт и частицы пишут 0. Его прибавляют резолв TAA (у ближайшего по глубине пикселя 3×3), история SSAO и вход MetalFX Temporal. Одна история камеры (`Renderer::camHistory`) у TAA, SSAO и векторов. Вложение очищается и пишется и при `-mv 0` (+0,03–0,08 мс GPU на проход G-буфера) | `-mv 0` или `[INTERNAL] motionVectors=0`; `OPENGOTHIC_MOTION_VECTORS=0\|1` главнее обоих; в логе `render: motion vectors = 0\|1`; вид векторов вместо кадра — `OPENGOTHIC_MOTION_VIEW=1` (тон — направление, яркость — длина, чёрное — ровно 0), шкала `OPENGOTHIC_MOTION_VIEW_PX` (по умолчанию 2 px/кадр) | `common/graphics/instancestorage.*`, `renderer.cpp`, `renderer_post.cpp`, `sceneglobals.*`, `taa.*`, `visualobjects.*`, `drawcommands.*`, `shaders.cpp`, `commandline.*`, `gothic.*`; `shader/patch_copy.comp`, `shader/materials/{vertex_process.glsl,materials_common.glsl,main.vert,main.frag}`, `shader/antialiasing/{taa_resolve,motion_view}.frag`, `shader/ssao/ssao.comp`, `shader/upscale/motion_camera.frag`; RG16F на Vulkan и DX12 в `lib/Tempest` | `gothic-instance-storage-contract`, `gothic-taa-test`; бенчи `motion-vectors` (кадры вида векторов) и `motion-vectors-clips` (клипы «без векторов \| с векторами» с `OPENGOTHIC_MOTION_VECTORS=0\|1` и `OPENGOTHIC_TAA=0`), замер `reports/render-features/2026-11-10-motion-vectors/metrics.py`; `scripts/perf.sh` с `OPENGOTHIC_GPU_PASSES=1` | [отчёт 1б](../../reports/render-features/2026-11-10-motion-vectors/step-1b.md), [замысел](../../reports/render-features/2026-11-10-motion-vectors/README.md) |

diff --git a/docs/graphics-plan.md b/docs/graphics-plan.md
@@ -22,7 +22,7 @@
 | Материалы: PBR, декали, параллакс | свои материалы — нормали и ORM, GGX ([отчёт](../reports/engine/2026-10-21-rough-specular/README.md)); оригиналы — Ламберт, альбедо через обратный ACES ×5; кровь — декали | идёт ремастером; свечения, параллакса и декалей сырости нет (Д3–Д5 в [плане мира](world-detail-plan.md)) |
 | Nanite: плотная геометрия без скачков LOD | мешлеты (`-ms`, на Linux по умолчанию), отсечение по HiZ; HLOD — в [стриминге](world-streaming.md) | средний: решаем LOD, HLOD и бюджетом треугольников на квартал, не Nanite |
 | Постобработка | тонмаппинг — приближение ACES Narkowicz, блум, экспозиция сцены по свету неба и солнца (одна на весь мир), сдвиг Пуркинье; с `-gi 1` — привыкание глаза: множитель кадра до кривой по замеру кадра без неба к ключу открытого места, только вверх, до 2,5 ступени (`-eye 0` выключает; [шаг 2 пересмотра трассировки](../reports/render-features/2026-11-08-rt-revisit/step-2-shade.md#привыкание-глаза-сделано-12112026)) | средний: нет грейдинга, глубины резкости, смаза движения; ACES гасит насыщенный яркий цвет ([огонь](../reports/engine/2026-11-01-fire-rendering.md)) |
-| Небо и атмосфера | небо на LUT по Хиллари, объёмный туман с лучами солнца; облака — два слоя текстур оригинала с поддельным рассеянием (`clouds.glsl`) | средний: облака плоские, лампы не светят в тумане |
+| Небо и атмосфера | небо на LUT по Хиллари, объёмный туман с лучами солнца (под GI свет неба в нём гасится по доле неба, видимой из точки камеры, — [шаг 2 пересмотра трассировки](../reports/render-features/2026-11-08-rt-revisit/step-2-shade.md#дымка-в-тени-сделано-круг-3-12112026--д4-по-небу-у-камеры)); облака — два слоя текстур оригинала с поддельным рассеянием (`clouds.glsl`) | средний: облака плоские, лампы не светят в тумане |
 | Растительность | редкая растительность оригинала, его покачивание ветром | средний: нет густой травы, порывов, просвета листвы |
 | Персонажи | головы и тела оригинала, низкополигональные | большой вблизи, в диалогах |
 | Эффекты | PFX оригинала и свои частицы (`particles.d`) | средний: нет мягких частиц, освещённого дыма, флипбуков огня |
